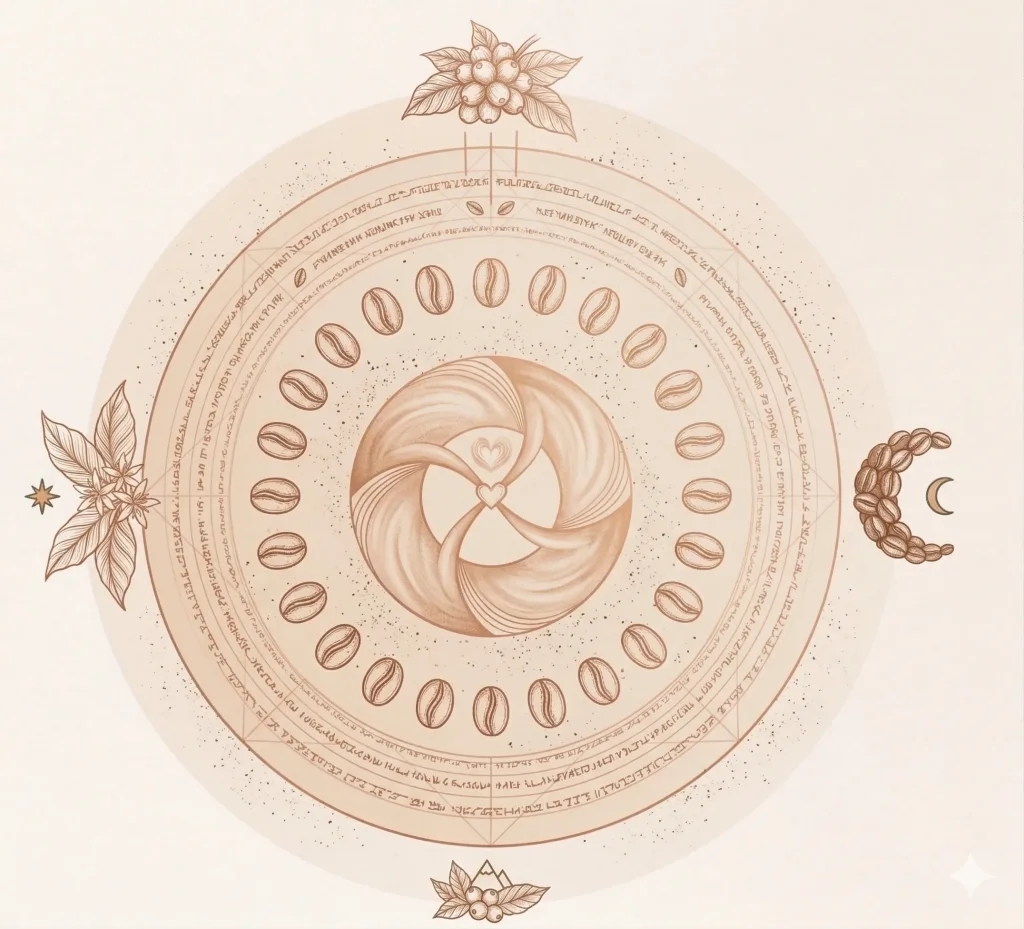
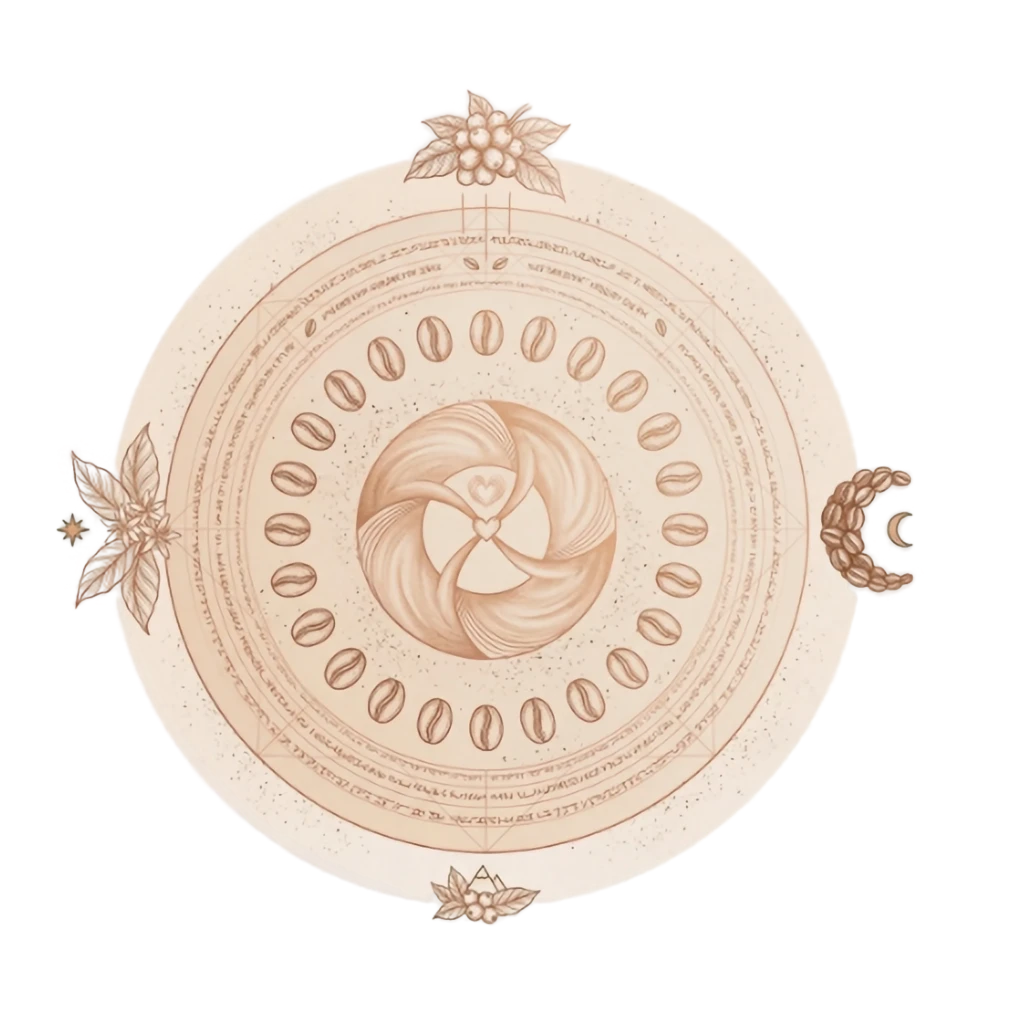
Spinning mandala hero: new artwork, mobile visibility, slower rotation
- Replace mandala with new illustrated coffee mandala (transparent bg,
  no visible square on rotation)
- Show on mobile at 2/3 width, sm:1/2, full column on desktop
- Slow rotation from 90s → 150s (mandala) / 180s → 300s (ring)
- Regenerate AVIF + WebP from new source with alpha preserved
- Remove hero-art-shell box-shadow (image drop-shadow handles depth)

diff --git a/index.html b/index.html
@@ -250,10 +250,6 @@
     }
     .hero-art-shell {
       position: relative;
-      border-radius: 2rem;
-      background:
-        radial-gradient(circle at 50% 50%, rgba(212, 163, 115, 0.2), rgba(212, 163, 115, 0.02) 62%, transparent 78%);
-      box-shadow: 0 36px 100px rgba(44, 27, 24, 0.12);
     }
     .hero-art-shell::before {
       content: "";
@@ -262,12 +258,23 @@
       border-radius: 999px;
       border: 1px solid rgba(212, 163, 115, 0.18);
       pointer-events: none;
+      animation: ring-spin 300s linear infinite;
     }
     .hero-art {
       width: 100%;
       height: 100%;
       object-fit: contain;
       filter: drop-shadow(0 20px 32px rgba(160, 110, 68, 0.16));
+      animation: mandala-spin 150s linear infinite;
+    }
+    @keyframes mandala-spin {
+      to { transform: rotate(360deg); }
+    }
+    @keyframes ring-spin {
+      to { transform: rotate(-360deg); }
+    }
+    @media (prefers-reduced-motion: reduce) {
+      .hero-art, .hero-art-shell::before { animation: none; }
     }
     .nodo-link {
       position: relative;
@@ -422,15 +429,15 @@
         </div>
 
         <!-- Hero visual -->
-        <div class="fade-up relative hidden md:block">
-          <div class="relative w-full aspect-square max-w-lg mx-auto">
-            <div class="hero-art-shell absolute inset-2 md:inset-0 flex items-center justify-center">
+        <div class="fade-up relative">
+          <div class="relative w-2/3 sm:w-1/2 md:w-full aspect-square mx-auto">
+            <div class="hero-art-shell absolute inset-0 flex items-center justify-center">
               <picture>
                 <source srcset="assets/hero-mandala.avif" type="image/avif">
                 <img
                   src="assets/hero-mandala.webp"
                   alt="Ilustración ceremonial de café para Ameno Café"
-                  class="hero-art p-6 md:p-8"
+                  class="hero-art p-2 md:p-4"
                 >
               </picture>
             </div>
